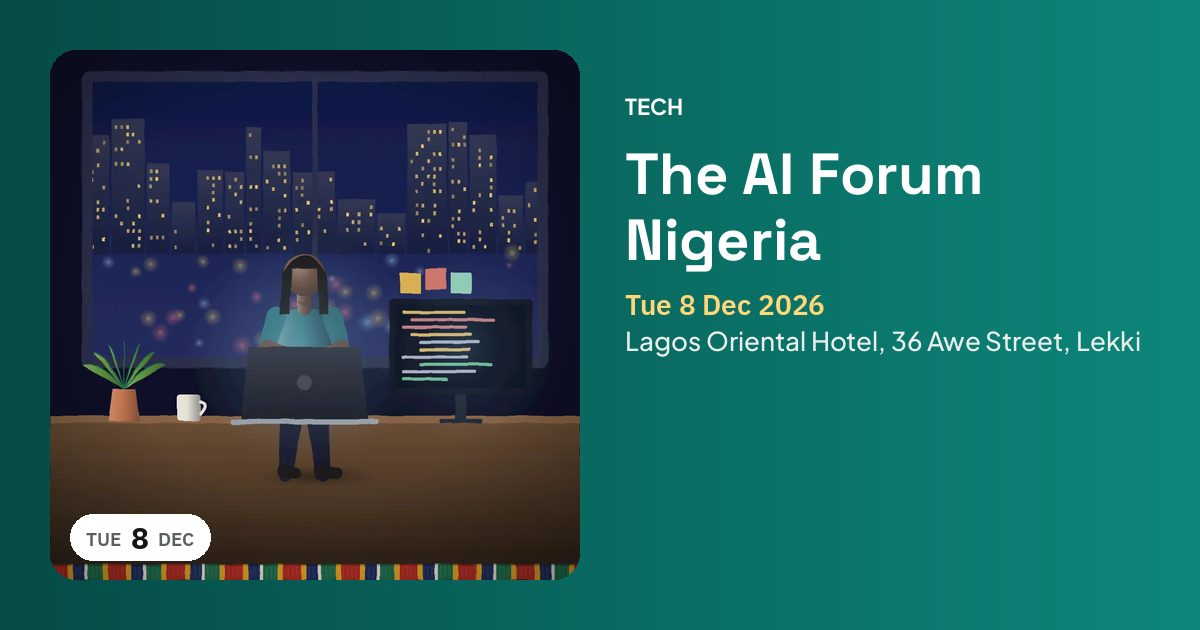
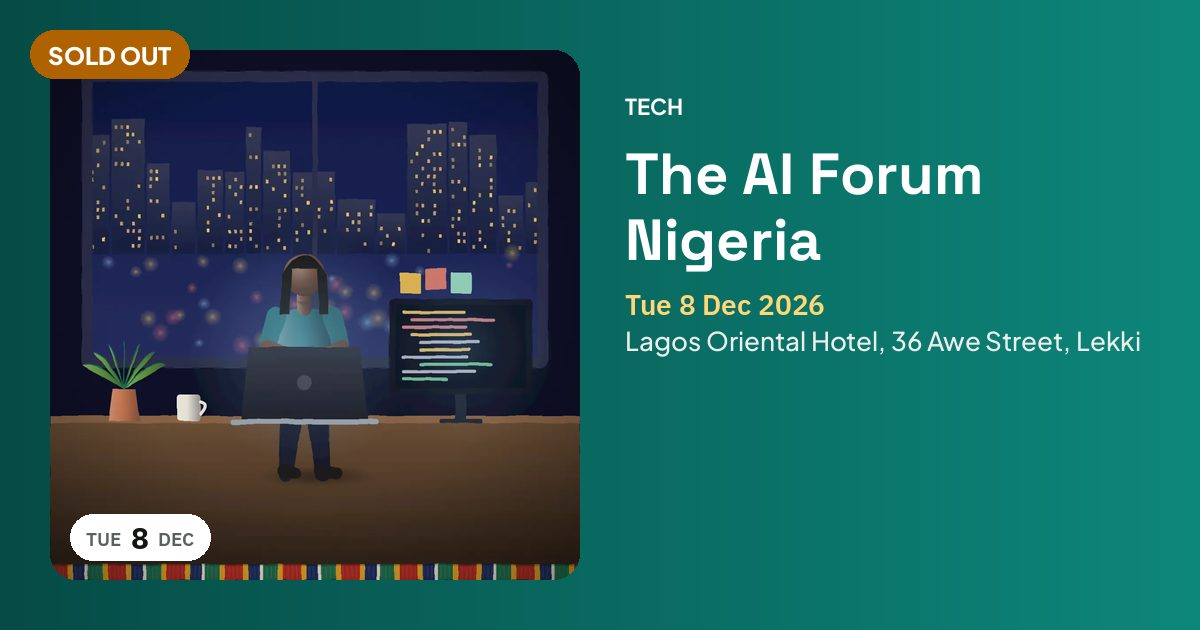
Publish event pages and feeds

Changed region(s): [[0.0, 0.0302, 0.185, 0.1508]]

diff --git a/e/the-ai-forum-nigeria-2026-12-08/index.html b/e/the-ai-forum-nigeria-2026-12-08/index.html
@@ -2,18 +2,18 @@
 <html lang="en"><head><meta charset="utf-8">
 <meta name="viewport" content="width=device-width, initial-scale=1">
 <title>The AI Forum Nigeria · Tue 8 Dec · Lagos | NaijaOuting</title>
-<meta name="description" content="Tue 8 Dec 2026 · Lagos Oriental Hotel, 36 Awe Street, Lekki · Registration">
+<meta name="description" content="Sold out. Tue 8 Dec 2026 · Lagos Oriental Hotel, 36 Awe Street, Lekki · Registration">
 <link rel="canonical" href="https://naijaouting-ng.vercel.app/e/the-ai-forum-nigeria-2026-12-08/">
 <meta name="theme-color" content="#0B6B4C">
 <meta property="og:type" content="website"><meta property="og:site_name" content="NaijaOuting">
 <meta property="og:title" content="The AI Forum Nigeria">
-<meta property="og:description" content="Tue 8 Dec 2026 · Lagos Oriental Hotel, 36 Awe Street, Lekki · Registration">
+<meta property="og:description" content="Sold out. Tue 8 Dec 2026 · Lagos Oriental Hotel, 36 Awe Street, Lekki · Registration">
 <meta property="og:url" content="https://naijaouting-ng.vercel.app/e/the-ai-forum-nigeria-2026-12-08/">
-<meta property="og:image" content="https://naijaouting-ng.vercel.app/e/img/the-ai-forum-nigeria-2026-12-08.jpg?v=7d174bde"><meta property="og:image:secure_url" content="https://naijaouting-ng.vercel.app/e/img/the-ai-forum-nigeria-2026-12-08.jpg?v=7d174bde">
+<meta property="og:image" content="https://naijaouting-ng.vercel.app/e/img/the-ai-forum-nigeria-2026-12-08.jpg?v=7ae6f192"><meta property="og:image:secure_url" content="https://naijaouting-ng.vercel.app/e/img/the-ai-forum-nigeria-2026-12-08.jpg?v=7ae6f192">
 <meta property="og:image:type" content="image/jpeg"><meta property="og:image:width" content="1200"><meta property="og:image:height" content="630">
 <meta property="og:image:alt" content="The AI Forum Nigeria, Tue 8 Dec 2026, Lagos">
-<meta name="twitter:card" content="summary_large_image"><meta name="twitter:title" content="The AI Forum Nigeria"><meta name="twitter:description" content="Tue 8 Dec 2026 · Lagos Oriental Hotel, 36 Awe Street, Lekki · Registration"><meta name="twitter:image" content="https://naijaouting-ng.vercel.app/e/img/the-ai-forum-nigeria-2026-12-08.jpg?v=7d174bde">
-<script type="application/ld+json">{"@context": "https://schema.org", "@type": "Event", "name": "The AI Forum Nigeria", "startDate": "2026-12-08", "endDate": "2026-12-08", "eventStatus": "https://schema.org/EventScheduled", "image": ["https://naijaouting-ng.vercel.app/e/img/the-ai-forum-nigeria-2026-12-08.jpg?v=7d174bde"], "url": "https://naijaouting-ng.vercel.app/e/the-ai-forum-nigeria-2026-12-08/", "eventAttendanceMode": "https://schema.org/OfflineEventAttendanceMode", "description": "A day of talks, demos and networking on the future of AI, hosted by OLAK Events.", "location": {"@type": "Place", "name": "Lagos Oriental Hotel, 36 Awe Street, Lekki", "address": {"@type": "PostalAddress", "addressLocality": "Lagos", "addressRegion": "Lagos", "addressCountry": "NG"}}}</script>
+<meta name="twitter:card" content="summary_large_image"><meta name="twitter:title" content="The AI Forum Nigeria"><meta name="twitter:description" content="Sold out. Tue 8 Dec 2026 · Lagos Oriental Hotel, 36 Awe Street, Lekki · Registration"><meta name="twitter:image" content="https://naijaouting-ng.vercel.app/e/img/the-ai-forum-nigeria-2026-12-08.jpg?v=7ae6f192">
+<script type="application/ld+json">{"@context": "https://schema.org", "@type": "Event", "name": "The AI Forum Nigeria", "startDate": "2026-12-08", "endDate": "2026-12-08", "eventStatus": "https://schema.org/EventScheduled", "image": ["https://naijaouting-ng.vercel.app/e/img/the-ai-forum-nigeria-2026-12-08.jpg?v=7ae6f192"], "url": "https://naijaouting-ng.vercel.app/e/the-ai-forum-nigeria-2026-12-08/", "eventAttendanceMode": "https://schema.org/OfflineEventAttendanceMode", "description": "A day of talks, demos and networking on the future of AI, hosted by OLAK Events.", "location": {"@type": "Place", "name": "Lagos Oriental Hotel, 36 Awe Street, Lekki", "address": {"@type": "PostalAddress", "addressLocality": "Lagos", "addressRegion": "Lagos", "addressCountry": "NG"}}}</script>
 <script>try{if(localStorage.getItem("ne_lv")||localStorage.getItem("ne_fav"))location.replace("/events/#e=the-ai-forum-nigeria-2026-12-08")}catch(x){}</script>
 <link rel="stylesheet" href="/fonts/type-v2.css">
 <style>:root{--bg:#FFFFFF;--tint:#F3F7F5;--pn:#fff;--tx:#141614;--mu:#5A605C;--ln:#E4E2DC;--ac:#0B6B4C;--acx:#fff;--warn:#9A5B00;--bad:#B3261E}
@@ -42,7 +42,7 @@ h1{margin:0 0 14px;font:700 clamp(26px,7vw,34px)/1.15 'Space Grotesk','Plus Jaka
 </head><body><main class="w">
 <a class="top" href="/events/"><svg width="16" height="16" viewBox="0 0 24 24" fill="none" stroke="currentColor" stroke-width="2.2" stroke-linecap="round" aria-hidden="true"><path d="M15 5l-7 7 7 7"/></svg>All events on NaijaOuting</a>
 <figure class="fl"><img src="/covers/tech.webp?v=3" alt="The AI Forum Nigeria" width="1200" height="1200" decoding="async" style="max-height:none"></figure>
-<p class="cat">Tech</p>
+<p class="stb" role="status">Sold out</p><p class="cat">Tech</p>
 <h1>The AI Forum Nigeria</h1>
 <ul class="facts"><li><svg width="18" height="18" viewBox="0 0 24 24" fill="none" stroke="currentColor" stroke-width="2" stroke-linecap="round" aria-hidden="true"><rect x="3.5" y="5" width="17" height="15" rx="2"/><path d="M3.5 10h17M8 3v4M16 3v4"/></svg><div><b class="num">Tue 8 Dec 2026</b></div></li><li><svg width="18" height="18" viewBox="0 0 24 24" fill="none" stroke="currentColor" stroke-width="2" stroke-linecap="round" aria-hidden="true"><path d="M12 21s7-6 7-11a7 7 0 1 0-14 0c0 5 7 11 7 11z"/><circle cx="12" cy="10" r="2.5"/></svg><div><b>Lagos Oriental Hotel, 36 Awe Street, Lekki</b><span>Lagos</span></div></li><li><svg width="18" height="18" viewBox="0 0 24 24" fill="none" stroke="currentColor" stroke-width="2" stroke-linejoin="round" aria-hidden="true"><path d="M3 8a2 2 0 0 0 0 4v4h18v-4a2 2 0 0 1 0-4V4H3z" transform="translate(0 2)"/><path d="M14 6v12" stroke-dasharray="2 2"/></svg><div><b class="num">Registration</b><span class="num">Sold out on Eventbrite</span></div></li></ul>
 <div class="act"><a class="b p" href="https://www.eventbrite.com/e/the-ai-forum-nigeria-tickets-1999018911376" target="_blank" rel="noopener">Register on eventbrite.com</a><a class="b" href="/events/#e=the-ai-forum-nigeria-2026-12-08">Directions, save and more details</a></div>
